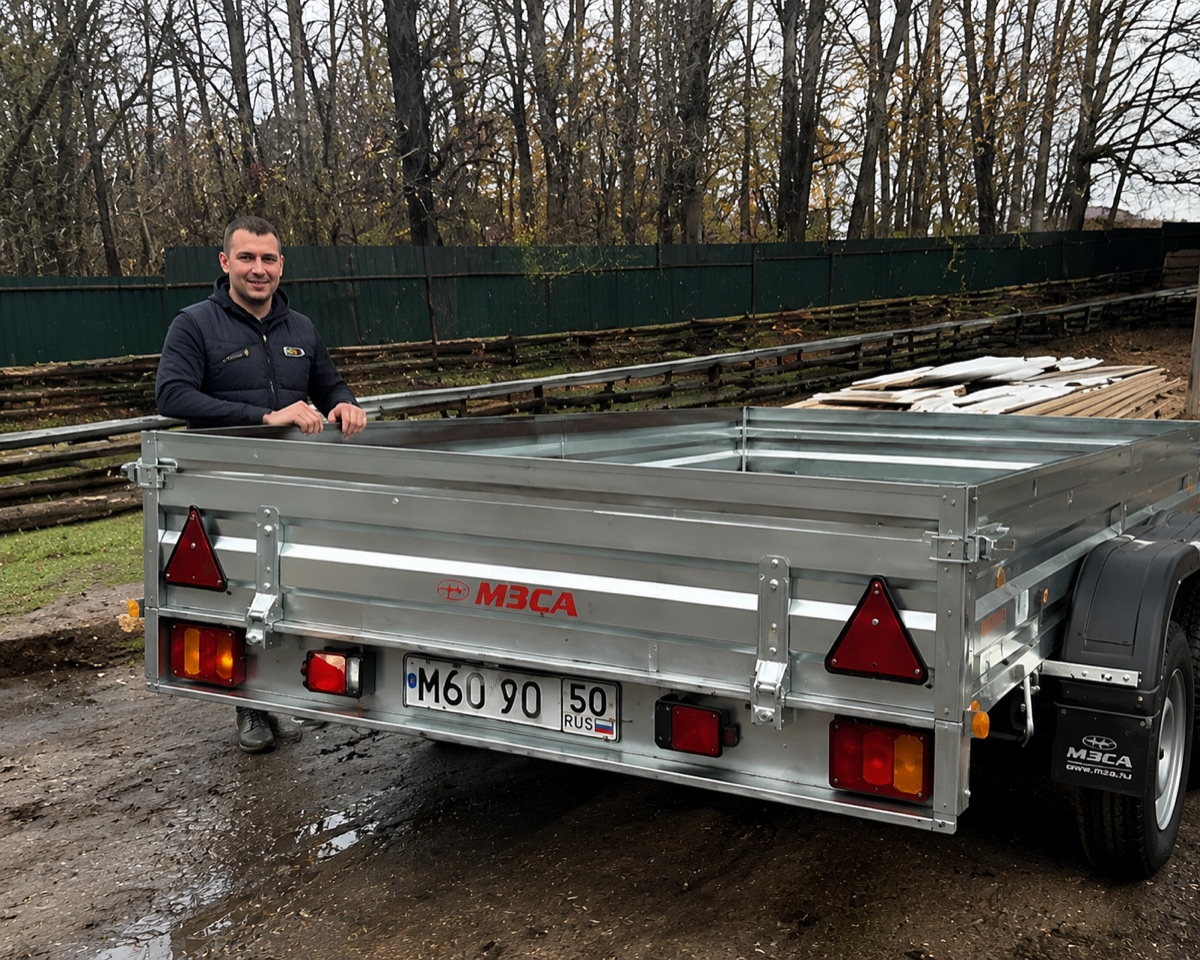
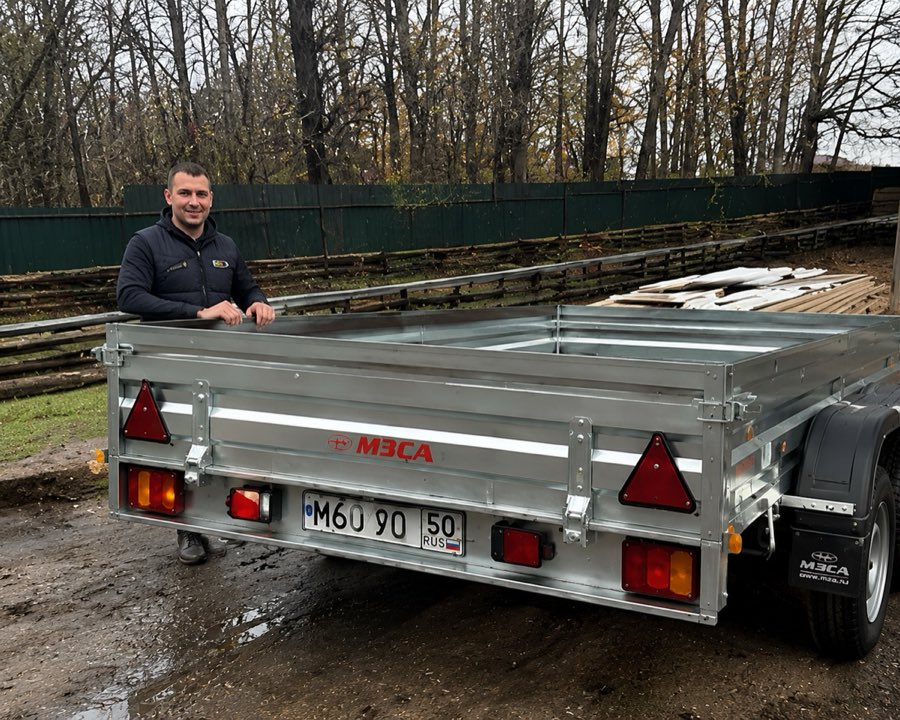
Сжатие фото + ленивая загрузка на v3 (ускорение фото-шага квиза)
- Отзывы reviews/1-6: 2.4МБ → 0.9МБ (1200px→900px, q58)
- Фото моделей 17/18/21/23/24/29 → 720px q60; фото квиза 12/16 → 520px q62
- v3: модели и отзывы грузятся лениво (IntersectionObserver, rootMargin 300px),
  чтобы не забивать канал на старте и не тормозить фото-шаг квиза
- Сжатые фото общие — ускоряют также v2 (прод) и v5

diff --git a/v3.html b/v3.html
@@ -486,12 +486,19 @@ const MODELS=[
  {img:'images/23.jpg',kind:'С тентом',name:'ALASKA Скала 3.5',spec:'1 ось · 3,5 м',price:92800},
 ];
 function renderModels(){
-  $('#models').innerHTML=MODELS.map(m=>'<div class="m"><div class="mi" style="background-image:url(\''+m.img+'\')"><span class="badge">'+esc(m.kind)+'</span></div><div class="mb"><div class="mn">'+esc(m.name)+'</div><div class="ms">'+esc(m.spec)+'</div><div class="mp">'+money(m.price)+'<small>с документами</small></div></div><button class="btn" onclick="document.querySelector(\'.quiz\').scrollIntoView({behavior:\'smooth\',block:\'center\'})">Подобрать</button></div>').join('');
+  $('#models').innerHTML=MODELS.map(m=>'<div class="m"><div class="mi" data-bg="'+m.img+'"><span class="badge">'+esc(m.kind)+'</span></div><div class="mb"><div class="mn">'+esc(m.name)+'</div><div class="ms">'+esc(m.spec)+'</div><div class="mp">'+money(m.price)+'<small>с документами</small></div></div><button class="btn" onclick="document.querySelector(\'.quiz\').scrollIntoView({behavior:\'smooth\',block:\'center\'})">Подобрать</button></div>').join('');
 }
 function renderReviews(){
-  $('#revRow').innerHTML=REVIEWS.map(r=>'<div class="rev"><div class="ri" style="background-image:url(\''+r.img+'\')"></div><div class="rb"><div class="st">★★★★★</div><p class="rt">'+esc(r.text)+'</p><div class="rmodel">'+esc(r.model)+'</div><div class="rw"><div class="rav">'+r.ini+'</div><div><b>'+esc(r.name)+'</b><span>'+esc(r.city)+'</span></div></div></div></div>').join('');
+  $('#revRow').innerHTML=REVIEWS.map(r=>'<div class="rev"><div class="ri" data-bg="'+r.img+'"></div><div class="rb"><div class="st">★★★★★</div><p class="rt">'+esc(r.text)+'</p><div class="rmodel">'+esc(r.model)+'</div><div class="rw"><div class="rav">'+r.ini+'</div><div><b>'+esc(r.name)+'</b><span>'+esc(r.city)+'</span></div></div></div></div>').join('');
 }
-renderModels();renderReviews();renderFaq();render();
+// ленивая подгрузка фоновых фото (модели/отзывы) — грузятся при доскролле, не забивают канал на старте
+function lazyBg(){
+  var els=document.querySelectorAll('[data-bg]');
+  if(!('IntersectionObserver' in window)){els.forEach(function(e){e.style.backgroundImage="url('"+e.dataset.bg+"')";});return;}
+  var io=new IntersectionObserver(function(entries){entries.forEach(function(x){if(x.isIntersecting){x.target.style.backgroundImage="url('"+x.target.dataset.bg+"')";io.unobserve(x.target);}});},{rootMargin:'300px'});
+  els.forEach(function(e){io.observe(e);});
+}
+renderModels();renderReviews();renderFaq();render();lazyBg();
 </script>
 </body>
 </html>
